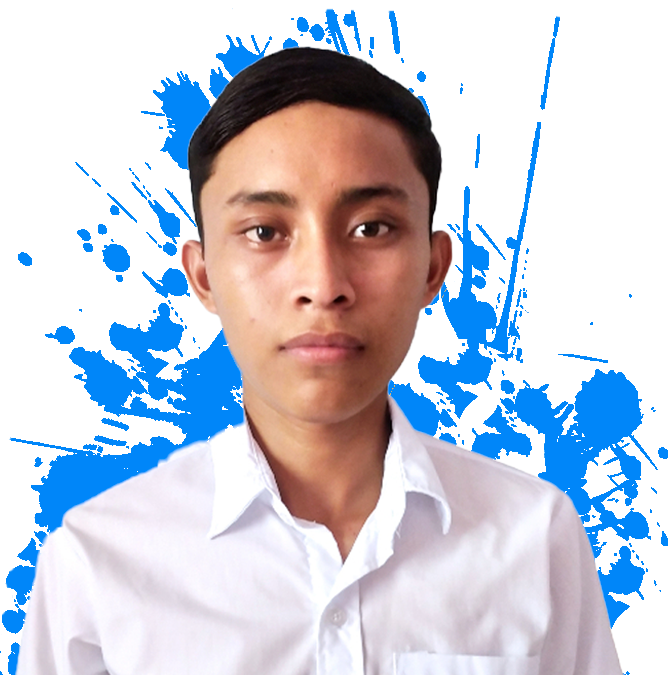
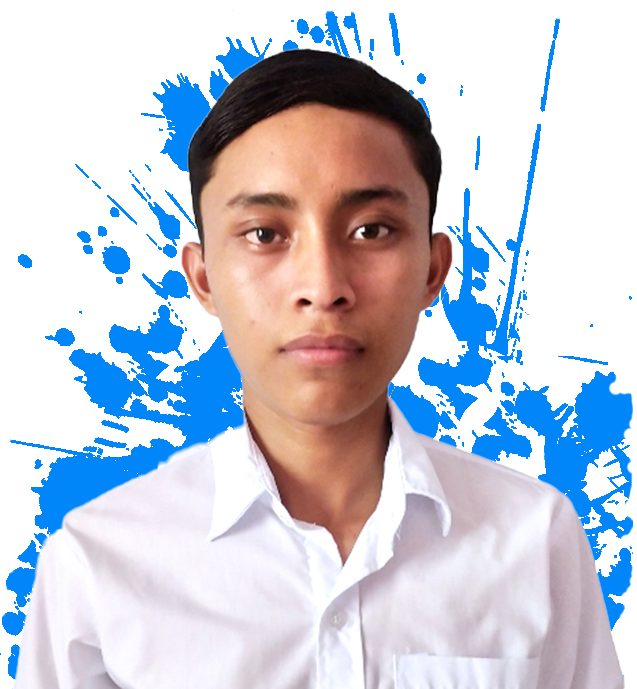
Resize images

diff --git a/src/index.html b/src/index.html
@@ -71,7 +71,7 @@
     <!-- Navbar End -->
 
     <!-- Home Start -->
-    <div class="container-fluid bg-white my-6 mt-0" id="home">
+    <div class="container-fluid bg-white my-1 mt-0" id="home">
         <div class="container">
             <div class="row g-5 align-items-center">
                 <div class="col-lg-6 py-6 pb-0 pt-lg-7">
@@ -86,8 +86,8 @@
                         </a>
                     </div>
                 </div>
-                <div class="col-lg-6">
-                    <img class="img-fluid" src="assets/img/bg_profile.png" style="height: 620px;">
+                <div class="col-lg-6 py-5">
+                    <img class="img-fluid" src="assets/img/bg_profile.png" style="width: 95%;">
                 </div>
             </div>
         </div>
@@ -115,7 +115,7 @@
     <!-- Video Modal End -->
 
     <!-- About Start -->
-    <div class="container-xxl py-6" id="about">
+    <div class="container-fluid bg-light my-5 py-6" id="about">
         <div class="container">
             <div class="row g-5">
                 <div class="col-lg-5-5 wow fadeInUp" data-wow-delay="0.1s">
@@ -149,7 +149,7 @@
                             <h5 class="mb-3"><i class="far fa-check-circle text-primary me-3"></i>Ingles A2</h5>
                         </div>
                         <div class="col-sm-6">
-                            <img class="img-fluid rounded" src="assets/img/bg_setup.jpg" alt="">
+                            <img class="img-fluid rounded" src="assets/img/bg_setup.jpg" alt="" style="height: 100%;">
                         </div>
                     </div>
                 </div>
@@ -486,7 +486,7 @@
     <!-- Projects End -->
 
     <!-- Contact Start -->
-    <div class="container-xxl pb-5" id="contact">
+    <div class="container-fluid bg-light my-5 py-6" id="contact">
         <div class="container py-5">
             <div class="row g-5 mb-5 wow fadeInUp" data-wow-delay="0.1s">
                 <div class="col-lg-6">
